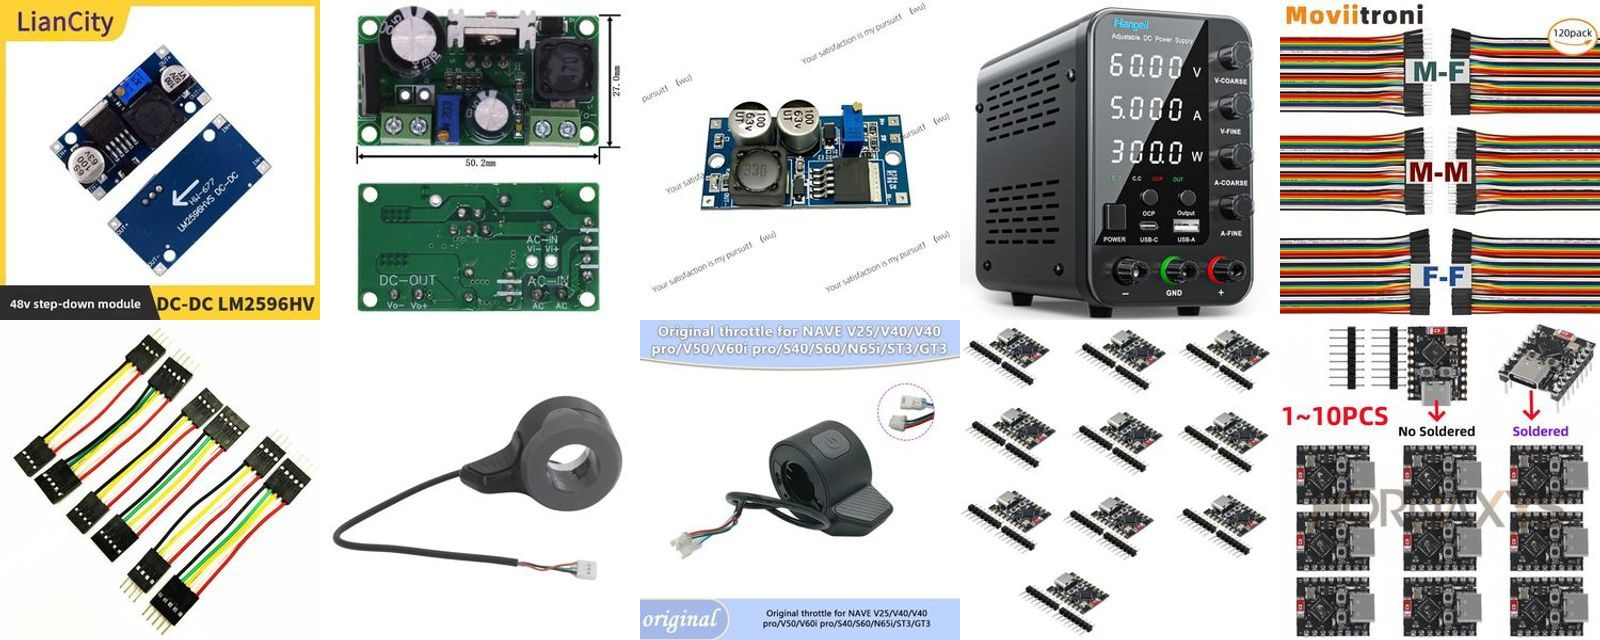
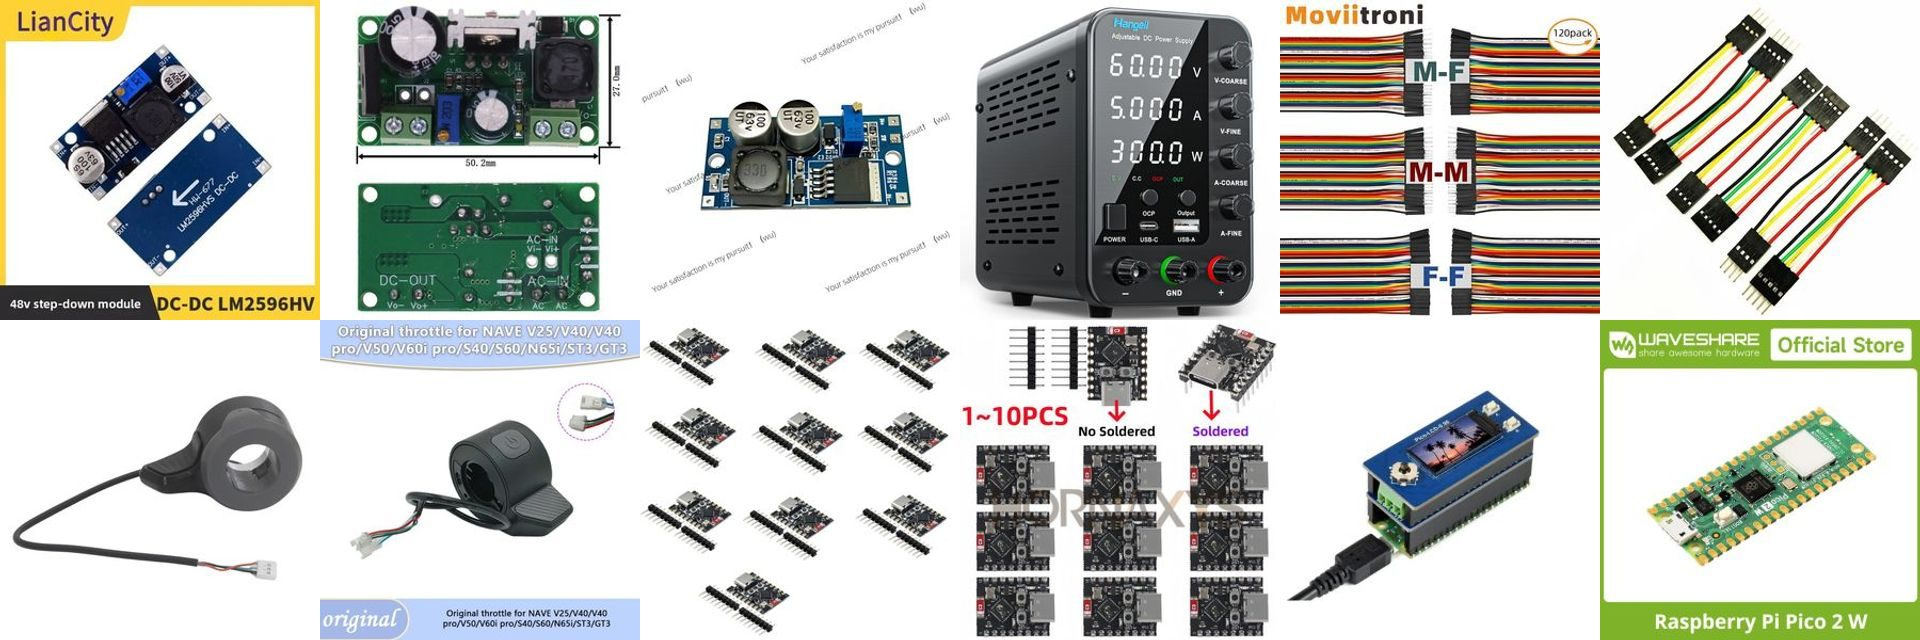
Add RS485 sniffer (Pico-2CH-RS485 + Pico) to shopping list

diff --git a/src/content/blog/parts-im-ordering.md b/src/content/blog/parts-im-ordering.md
@@ -71,6 +71,20 @@ The firmware needs a throttle source to test drive and steer commands, and e-sco
 <p style="margin:0;line-height:1.7;"><strong><a href="https://s.click.aliexpress.com/e/_c4eoJpOl">ESP32-C3 SuperMini</a></strong> (~247 kr · $25 / €22 / £19, multi-pack). The same part that already rides on each board as the wireless SWD probe.</p>
 </div>
 
+## RS485 sniffer
+
+I want a microcontroller with **two RS485 ports** to passively watch both directions of a 4-wire RS485 link on an RTK GPS. The obvious option, a Raspberry Pi RS485 CAN HAT, has two RS485 channels but drags a whole Pi along. A genuine two-port *microcontroller* board is rare (almost every "ESP32 RS485" board is one RS485 plus a CAN), but the Pico carrier below is a clean fit: two SP3485 transceivers on the Pico's two independent hardware UARTs (GP0/1 and GP4/5), exactly what a full-duplex tap needs. It is not isolated, which is fine for a low-voltage bench tap.
+
+<div style="display:flex;gap:1.25rem;align-items:center;margin:2rem 0;">
+<a href="https://s.click.aliexpress.com/e/_c4oSDzJf" style="flex:none;"><img src="/parts/rs485-pico-board.jpg" alt="Pico-2CH-RS485 dual RS485 module for Raspberry Pi Pico" width="120" style="border-radius:6px;display:block;"></a>
+<p style="margin:0;line-height:1.7;"><strong><a href="https://s.click.aliexpress.com/e/_c4oSDzJf">Pico-2CH-RS485 board</a></strong> (~109 kr · $11 / €9.8 / £8.5). The RS485 front-end: two SP3485 transceivers wired to the Pico's two UARTs. You supply the Pico.</p>
+</div>
+
+<div style="display:flex;gap:1.25rem;align-items:center;margin:2rem 0;">
+<a href="https://s.click.aliexpress.com/e/_c3ttm3el" style="flex:none;"><img src="/parts/pico-2w.jpg" alt="Raspberry Pi Pico 2 W development board" width="120" style="border-radius:6px;display:block;"></a>
+<p style="margin:0;line-height:1.7;"><strong><a href="https://s.click.aliexpress.com/e/_c3ttm3el">Raspberry Pi Pico 2 W</a></strong> (~119 kr · $12 / €11 / £9.3). The brain that plugs into it. The W adds WiFi, handy for streaming captured traffic off the bench.</p>
+</div>
+
 ## Untested, for now
 
 None of these are tested yet, they are just what I am ordering. Once they arrive and I have put them to work on the bench, I will report back on how well each one actually holds up.